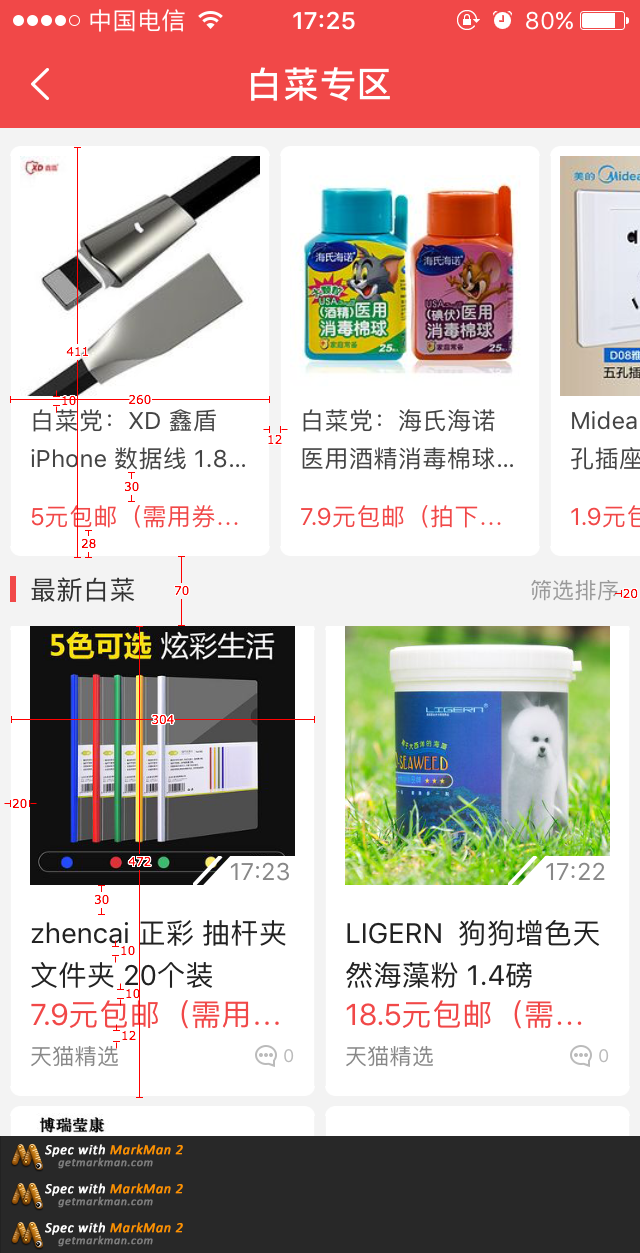
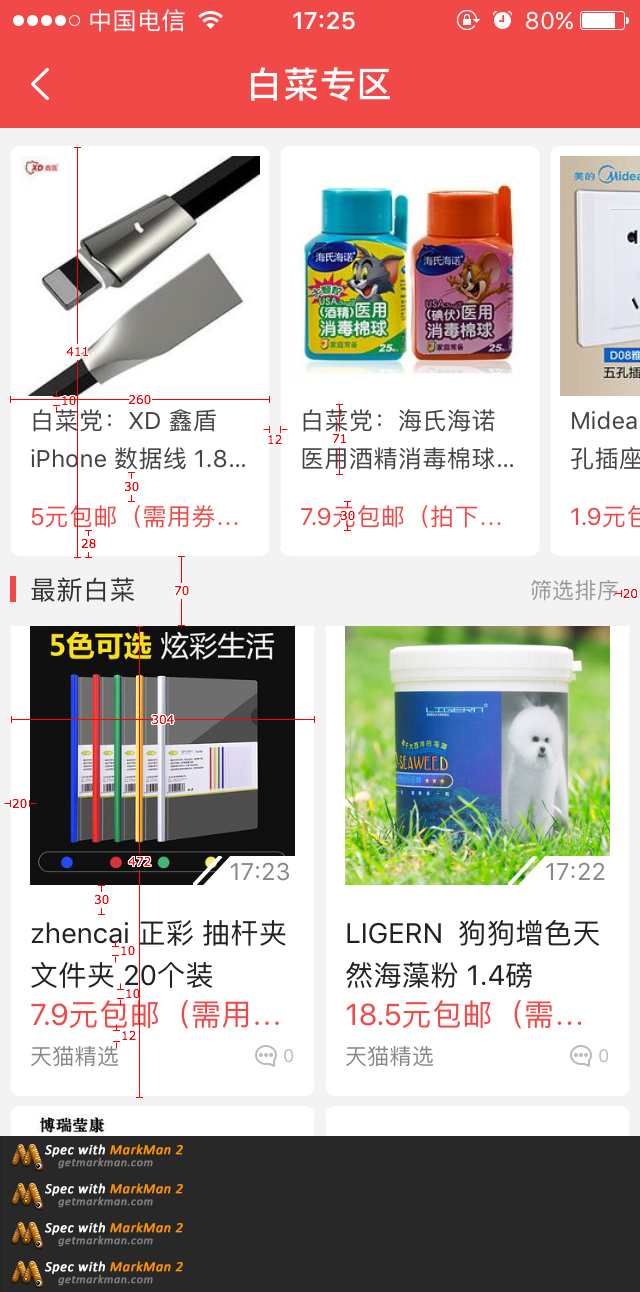
暂时复用首页cell, 完成白菜专区界面

diff --git a/什么值得买7.1.1版本/什么值得买(5月12日)/Classes/Home(首页)/BaiCai(白菜专区)/Controller/ZZBaiCaiController.swift b/什么值得买7.1.1版本/什么值得买(5月12日)/Classes/Home(首页)/BaiCai(白菜专区)/Controller/ZZBaiCaiController.swift
@@ -24,6 +24,8 @@ class ZZBaiCaiController: ZZSecondTableViewController {
         
         tableView.tableHeaderView = headerView
         tableView.sectionHeaderHeight = 35
+        tableView.rowHeight = kScreenWidth / 3.0 + 20 + 2;
+        tableView.register(UINib.init(nibName: "ZZListCell", bundle: nil), forCellReuseIdentifier: "ZZListCell")
     }
     
 
@@ -62,6 +64,33 @@ class ZZBaiCaiController: ZZSecondTableViewController {
         
     }
     
+    override func loadMoreData() {//https://api.smzdm.com/v1/baicai/list?f=iphone&limit=20&offset=20&tag_name=%E6%AF%8F%E6%97%A5%E7%99%BD%E8%8F%9C&v=7.3.3&weixin=1
+        
+        ZZNetworking.get("v1/baicai/list", parameters: configureParameters()) {(responseObj, error) in
+            if let _ = error {
+                self.tableView.mj_footer.endRefreshing()
+                return
+            }
+            
+            if let resopnseObj = responseObj as? [AnyHashable: Any]{
+                
+                if let rows = resopnseObj["rows"] as? [[AnyHashable: Any]]{
+                    
+                    let baiCaiRows = NSArray.modelArray(with: ZZWorthyArticle.self, json: rows)
+                    
+                    self.dataSource.addObjects(from: baiCaiRows!)
+                    self.offset = rows.count
+                }
+                
+                self.tableView.reloadData()
+                self.tableView.mj_footer.endRefreshing()
+                
+                self.offset = self.dataSource.count
+            }
+            
+        }
+    }
+    
     
     func requestNewestBaiCaiList(){ //最新白菜数据
         ZZNetworking.get("v1/baicai/list", parameters: configureParameters()) {(responseObj, error) in
@@ -75,14 +104,15 @@ class ZZBaiCaiController: ZZSecondTableViewController {
                 if let rows = resopnseObj["rows"] as? [[AnyHashable: Any]]{
 
                     let baiCaiRows = NSArray.modelArray(with: ZZWorthyArticle.self, json: rows)
-                    
-                    self.dataSource.addObjects(from: baiCaiRows!)
+           
+                    self.dataSource = NSMutableArray.init(array: baiCaiRows!)
                     self.offset = rows.count
                 }
                 
-                //self.tableView.reloadData()
+                self.tableView.reloadData()
                 self.tableView.mj_header.endRefreshing()
                 
+                self.offset = self.dataSource.count
             }
             
         }
@@ -107,12 +137,20 @@ extension ZZBaiCaiController{
     }
 
     override func tableView(_ tableView: UITableView, numberOfRowsInSection section: Int) -> Int {
-        return 0
+        return self.dataSource.count
     }
     
-//    override func tableView(_ tableView: UITableView, cellForRowAt indexPath: IndexPath) -> UITableViewCell {
-//        
-//    }
+    override func tableView(_ tableView: UITableView, cellForRowAt indexPath: IndexPath) -> UITableViewCell {
+        
+        let listCell = tableView.dequeueReusableCell(withIdentifier: "ZZListCell", for: indexPath) as! ZZListCell
+        
+        let worthyArticle = self.dataSource[indexPath.row] as! ZZWorthyArticle
+        
+        listCell.article = worthyArticle
+        
+        return listCell
+        
+    }
     
     override func tableView(_ tableView: UITableView, viewForHeaderInSection section: Int) -> UIView? {
         
@@ -122,5 +160,11 @@ extension ZZBaiCaiController{
         return bannerView
         
     }
+    
+    override func tableView(_ tableView: UITableView, heightForFooterInSection section: Int) -> CGFloat {
+        return 0.1
+    }
+    
+    
 }
     

diff --git a/什么值得买7.1.1版本/什么值得买(5月12日)/Classes/Main/Controller/ZZFirstBaseViewController.m b/什么值得买7.1.1版本/什么值得买(5月12日)/Classes/Main/Controller/ZZFirstBaseViewController.m
@@ -23,6 +23,7 @@
 - (void)viewDidLoad {
     [super viewDidLoad];
     
+    
     self.navigationItem.leftBarButtonItem = [[UIBarButtonItem alloc] initWithTitle:@"筛选" style:UIBarButtonItemStylePlain target:self action:@selector(leftBarButtonItemDidClick)];
     
     self.navigationItem.rightBarButtonItem = [[UIBarButtonItem alloc] initWithTitle:@"关注" style:UIBarButtonItemStylePlain target:self action:@selector(rightBarButtonItemDidClick)];
@@ -112,19 +113,19 @@
 /** 关注按钮点击 */
 - (void)rightBarButtonItemDidClick {
 //    //新建一个聊天会话View Controller对象
-//    RCConversationViewController *chat = [[RCConversationViewController alloc]init];
-//    //设置会话的类型，如单聊、讨论组、群聊、聊天室、客服、公众服务会话等
-//    chat.conversationType = ConversationType_CUSTOMERSERVICE;
-//    //设置会话的目标会话ID。（单聊、客服、公众服务会话为对方的ID，讨论组、群聊、聊天室为会话的ID）
-//    chat.targetId = @"targetIdYouWillChatIn";
-//    //设置聊天会话界面要显示的标题
-//    chat.title = @"色魔张大妈";
-//    //显示聊天会话界面
-//    [self.navigationController pushViewController:chat animated:YES];
-    RCPublicServiceChatViewController *conversationVC = [[RCPublicServiceChatViewController alloc] initWithConversationType:ConversationType_CUSTOMERSERVICE targetId:@"KEFU146920780830124"];
-    conversationVC.title = @"色魔张大妈";
-    
-    [self.navigationController pushViewController:conversationVC animated:YES];
+    RCConversationViewController *chat = [[RCConversationViewController alloc]init];
+    //设置会话的类型，如单聊、讨论组、群聊、聊天室、客服、公众服务会话等
+    chat.conversationType = ConversationType_PRIVATE;
+    //设置会话的目标会话ID。（单聊、客服、公众服务会话为对方的ID，讨论组、群聊、聊天室为会话的ID）
+    chat.targetId = @"targetIdYouWillChatIn";
+    //设置聊天会话界面要显示的标题
+    chat.title = @"色魔张大妈";
+    //显示聊天会话界面
+    [self.navigationController pushViewController:chat animated:YES];
+//    RCPublicServiceChatViewController *conversationVC = [[RCPublicServiceChatViewController alloc] initWithConversationType:ConversationType_CUSTOMERSERVICE targetId:@"KEFU146920780830124"];
+//    conversationVC.title = @"色魔张大妈";
+//    
+//    [self.navigationController pushViewController:conversationVC animated:YES];
 }
 
 

diff --git a/什么值得买7.1.1版本/什么值得买(5月12日)/Classes/Main/Controller/ZZSecondTableViewController.m b/什么值得买7.1.1版本/什么值得买(5月12日)/Classes/Main/Controller/ZZSecondTableViewController.m
@@ -27,7 +27,7 @@
 
 /** 初始化tableView */
 - (void)tableViewInitial {
-    UITableView *tableView = [[UITableView alloc] initWithFrame:self.view.bounds style:UITableViewStyleGrouped];
+    UITableView *tableView = [[UITableView alloc] initWithFrame:self.view.bounds style:UITableViewStylePlain];
     tableView.backgroundColor = [UIColor whiteColor];
     tableView.dataSource = self;
     tableView.delegate = self;

diff --git a/什么值得买7.1.1版本/什么值得买(5月12日)/Classes/FantasyGoods(好物)/Model/什么值得买-Bridging-Header.h b/什么值得买7.1.1版本/什么值得买(5月12日)/Classes/FantasyGoods(好物)/Model/什么值得买-Bridging-Header.h
@@ -16,3 +16,4 @@
 #import "ZZCyclePicHelper.h"
 #import "ZZSecondCollectionViewController.h"
 #import "ZZWorthyArticle.h"
+#import "ZZListCell.h"

diff --git a/什么值得买7.1.1版本/什么值得买(5月12日)/AppDelegate.m b/什么值得买7.1.1版本/什么值得买(5月12日)/AppDelegate.m
@@ -17,7 +17,6 @@
 #import "AppDelegate+SDKInit.h"
 
 
-
 @interface AppDelegate ()<WeiboSDKDelegate>
 
 @end
